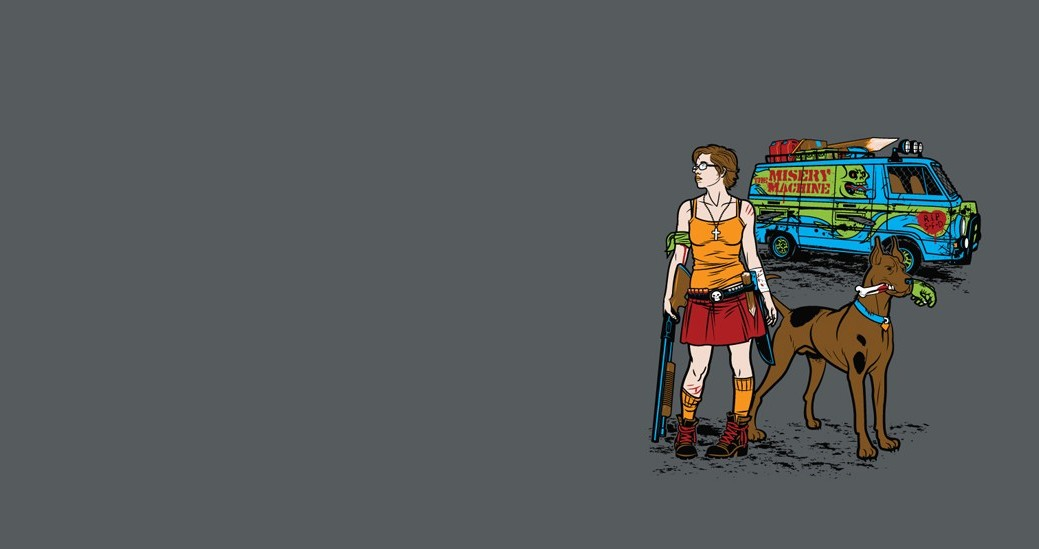
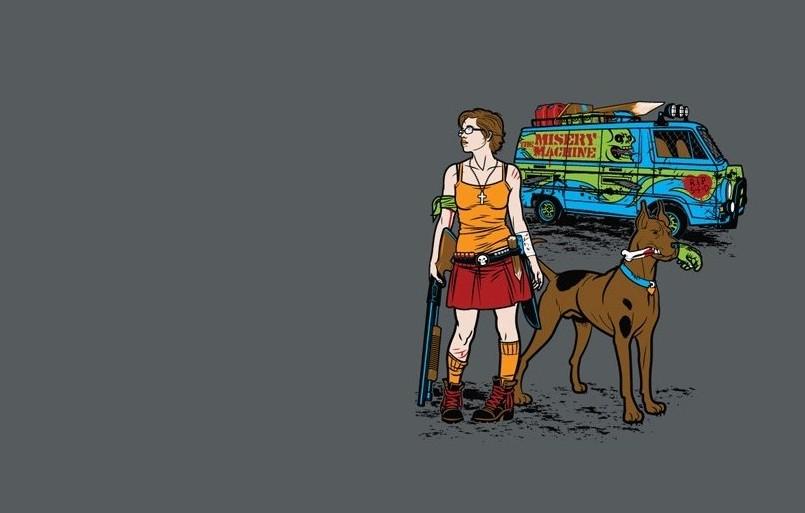
Styling the login template.

Changed region(s): [[0.4969, 0.1871, 0.9627, 0.8733]]

diff --git a/watch/templates/authenticate/register.html b/watch/templates/authenticate/register.html
@@ -2,13 +2,13 @@
 
 {% block content %}
 <div class="card bg-dark text-white">
-    <img src="/static/media/wp.jpg" class="card-img" alt="...">
+    <img src="/static/media/wpi.jpg" class="card-img" alt="...">
     <div class="card-img-overlay">
         <div class="container">
             <div class="d-flex justify-content-center form_container"> 
               <div class="row"> 
                   <div class="col-md-12">
-                      <h2 class="mt-5" align="center"style="font-family: Oleo Script Swash Caps, cursive;font-size: 50px;">Register</h2>    
+                      <h2 class="mt-5" align="center"style="font-family: Oleo Script Swash Caps, cursive;font-size: 55px;">Register</h2>    
                       <form method="POST" action="" style="width: 450px;">
                           {% csrf_token %}
                           <div class="input-group mb-3">
@@ -45,12 +45,8 @@
         
         for (var field in form_fields){	
         form_fields[field].className += ' form-control'
-        }
-        
+        }       
         </script>
-      <h5 class="card-title"></h5>
-      <p class="card-text"></p>
-      <p class="card-text"></p>
     </div>
   </div>
 

diff --git a/watch/templates/authenticate/login.html b/watch/templates/authenticate/login.html
@@ -8,13 +8,12 @@
   {% endfor %} 
  </div>
  <div class="card bg-dark text-white">
-    <img src="/static/media/wp6.jpg" class="card-img" alt="...">
+    <img src="/static/media/wp5.jpg" class="card-img" alt="...">
     <div class="card-img-overlay">
         <div class="container">
-            <div class="d-flex justify-content-center form_container"> 
                 <div class="row"> 
-                    <div class="col-md-12">
-                      <h2 class="mt-5" align="center" style="font-family: Oleo Script Swash Caps, cursive;font-size: 50px;">Login</h2>  
+                    <div class="col-md-4">
+                      <h2 class="mt-5" align="center" style="font-family: Oleo Script Swash Caps, cursive;font-size: 55px;">Login</h2>  
                             <form method="POST" action="">
                                 {% csrf_token %}
                                 <div class="input-group mb-3">
@@ -31,7 +30,6 @@
                     </div>
                 </div>
             </div>
-    </div>
   </div>
  
 {% endblock %}
